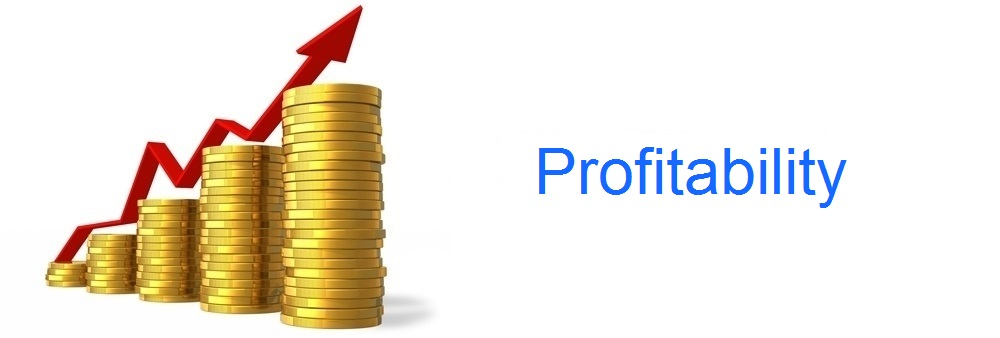
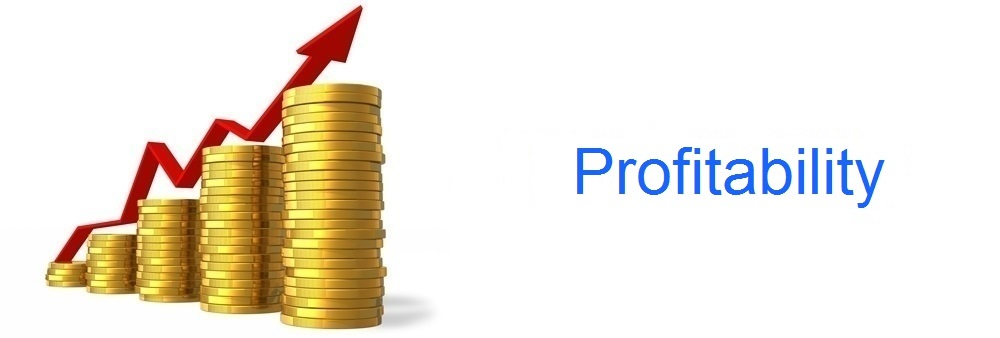
align images' captions

Changed region(s): [[0.527, 0.4142, 0.899, 0.6213]]

diff --git a/InterestPaymentService/ProjectInstaller.cs b/InterestPaymentService/ProjectInstaller.cs
@@ -14,15 +14,7 @@ namespace InterestPaymentService
 
         private void InterestPaymentServiceInstaller_AfterInstall(object sender, InstallEventArgs e)
         {
-            //try
-            //{
-                new ServiceController(InterestPaymentServiceInstaller.ServiceName).Start();
-            //}
-            //catch (Exception ex)
-            //{
-            //    MessageBox.Show(ex.Message + "    " + ex.InnerException.Message + "    " + ex.Data);
-            //}
-            
+            new ServiceController(InterestPaymentServiceInstaller.ServiceName).Start();      
         }
     }
    
